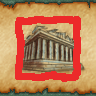
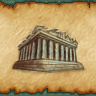
fixed bug with wrong bg during playable meta. new city prog screen WIP

Changed region(s): [[0.125, 0.1562, 0.8438, 0.875], [0.0, 0.1562, 0.0938, 0.3125], [0.9375, 0.1562, 1.0, 0.2812]]

diff --git a/sdk/examples/word/CubeStateMachine.cpp b/sdk/examples/word/CubeStateMachine.cpp
@@ -997,7 +997,9 @@ void CubeStateMachine::updateAnim(TileBuffer<16,16,1> &bg1TileBuf, AnimParams *p
         }
 
         // skip subanims for meta puzzle borders
-        if (i > CubeAnim_Main && !animHasNormalBorder(mAnimTypes[CubeAnim_Main]))
+        if (i > CubeAnim_Main &&
+            !animHasNormalBorder(mAnimTypes[CubeAnim_Main]) &&
+                !Dictionary::currentIsMetaPuzzle())
         {
             continue;
         }
@@ -1381,7 +1383,7 @@ void CubeStateMachine::paint()
         break;
 
     case CubeStateIndex_StoryCityProgression:
-        mVidBuf->bg0.image(vec(0,0), MenuBlank);
+        mVidBuf->bg0.image(vec(0,0), CityProgressionBlank);
         if (getCube() == WordGame::instance()->getMenuCube())
         {
             /* TODO animtype?
@@ -1406,25 +1408,29 @@ void CubeStateMachine::paint()
             // FIXME data-drive icon name
             const static AssetImage *icons[] =
             {
-                &IconGreece,
-                &IconGreece,
-                &IconGreece,
-                &IconGreece,
-                &IconGreece,
-                &IconGreece,
-                &IconGreece,
-                &IconGreece,
-                &IconGreece,
-                &IconGreece,
-                &IconGreece,
+                &IconAthens,
+                &IconAthens,
+                &IconAthens,
+                &IconAthens,
+                &IconAthens,
+                &IconAthens,
+                &IconAthens,
+                &IconAthens,
+                &IconAthens,
+                &IconAthens,
+                &IconAthens,
             };
             unsigned char world;
             // TODO drive from python script that looks at puzzles
             unsigned char metaPuzzleIndexes[MAX_METAS_PER_WORLD];
             unsigned char numMetas;
             unsigned char numIndexes;
-            Dictionary::getCurrentWorldInfo(world, numMetas, metaPuzzleIndexes, numIndexes);
-            mVidBuf->bg0.image(vec(2,2), *icons[world]);
+            Dictionary::getCurrentWorldInfo(world,
+                                            numMetas,
+                                            metaPuzzleIndexes,
+                                            numIndexes);
+            //mVidBuf->bg0.image(vec(2,2), vec(1,12) IconLondon, vec(0, 0));
+            //mVidBuf->bg0.image(vec(13,2), vec(1,12) IconLockedRightmost, vec(11, 0));
             //unsigned char startPuzzle = 0;
             //const unsigned char MAX_SLAT_WIDTH = 24;
             //unsigned char slatWidth = MIN(MAX_SLAT_WIDTH, 96/numMetas);
@@ -1475,10 +1481,18 @@ void CubeStateMachine::paint()
                         WordGame::instance()->getSavedData().isPuzzleSolved(metaPuzzleIndexes[i]);
                 }
 
-                if (!solved)
+                if (solved)
                 {
-                    const AssetImage* slat = SLATS[slatsIndex];
-                    mVidBuf->bg0.image(vec(2 + slatOffset, 2), *slat);
+//                    mVidBuf->bg0.image(vec(3,2), vec(10,12) *icons[world], vec(1, 0));
+                    mVidBuf->bg0.image(vec(2 + slatOffset, 2),
+                                       vec((int)SLAT_TILE_WIDTHS[slatsIndex],12),
+                                       *icons[world],
+                                       vec((int)slatOffset, 0));
+                }
+                else
+                {
+  //                  const AssetImage* slat = SLATS[slatsIndex];
+    //                mVidBuf->bg0.image(vec(2 + slatOffset, 2), *slat);
                     //LOG("slat %d\n", slatsIndex);
                 }
                 slatOffset += SLAT_TILE_WIDTHS[slatsIndex];

diff --git a/sdk/examples/word/Anim.cpp b/sdk/examples/word/Anim.cpp
@@ -360,7 +360,9 @@ bool animPaint(AnimType animT,
         {
             if (i < TopRowStartIndex)
             {
-                if (params->mCubeAnim == CubeAnim_Main && animHasNormalBorder(animT))
+                if (params->mCubeAnim == CubeAnim_Main &&
+                    (animHasNormalBorder(animT) ||
+                     Dictionary::currentIsMetaPuzzle()))
                 {
                     // row 1, bottom
                     const AssetImage *image =
@@ -473,7 +475,6 @@ bool animPaint(AnimType animT,
     return data.mLoop || animTime <= data.mDuration;
 }
 
-
 bool animHasNormalBorder(AnimType animT)
 {
    switch (animT)
@@ -483,10 +484,12 @@ bool animHasNormalBorder(AnimType animT)
    case AnimType_SlideR:
    case AnimType_OldWord:
    case AnimType_NewWord:
+       return !Dictionary::currentIsMetaPuzzle();
+
    case AnimType_NormalTilesEnter:
    case AnimType_NormalTilesExit:
    case AnimType_NormalTilesReveal: // reveal the letter on the just solved puzzle
-       return true;
+       return false;
 
    default:
        return false;

diff --git a/sdk/examples/word/CutscenePaintData.h b/sdk/examples/word/CutscenePaintData.h
@@ -24,7 +24,7 @@ const static char* CUTSCENE_DIALOGUE[Num_CutsceneIndexes] =
     "You've arrived in\nLondon, England",
     "You're staying with an\nold friend this summer,\n Doc. Henry Bhat.",
     "Doc's' old trunk begins\nto glow. You decide to\nopen it.",
-    "Hey, kiddo! Bad news.\nI lost my job at the museum...\nHold on!",
+    "Hey, kiddo! Bad news.\nI lost my job at\nthe museum... Hold on!",
     "Test",
     "Test",
     "Test",

diff --git a/sdk/examples/word/main.cpp b/sdk/examples/word/main.cpp
@@ -21,7 +21,7 @@ static const char* sideNames[] =
 };
 
 static struct MenuItem gItems[] =
-{ {&IconGreece, &LabelContinue},
+{ {&IconLondon, &LabelContinue},
   {&IconLocked, &LabelLocked},
   {&IconLocked, &LabelLocked},
   {&IconLocked, &LabelLocked},
